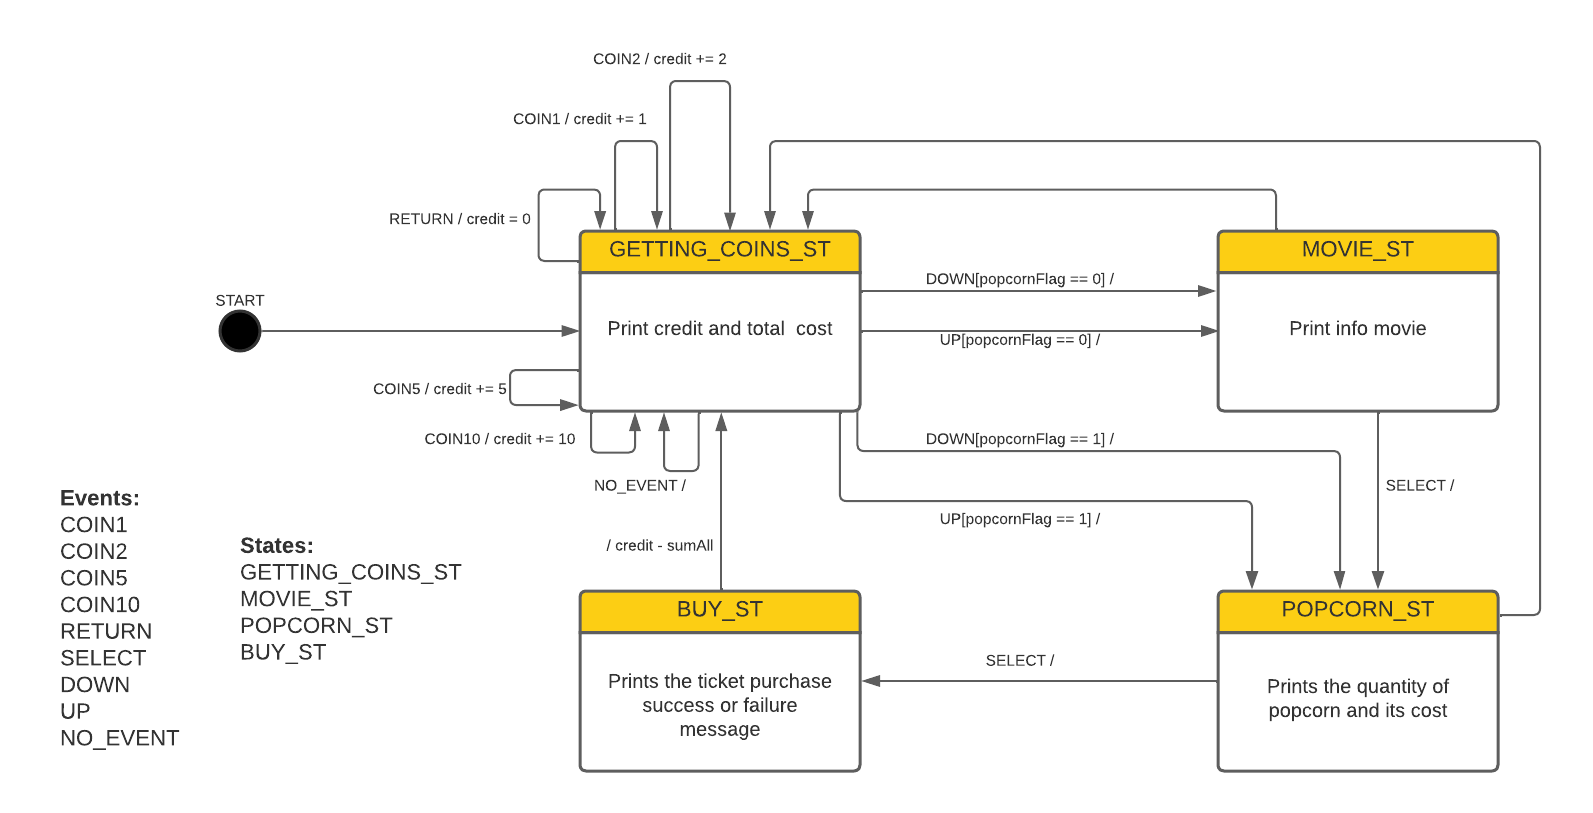
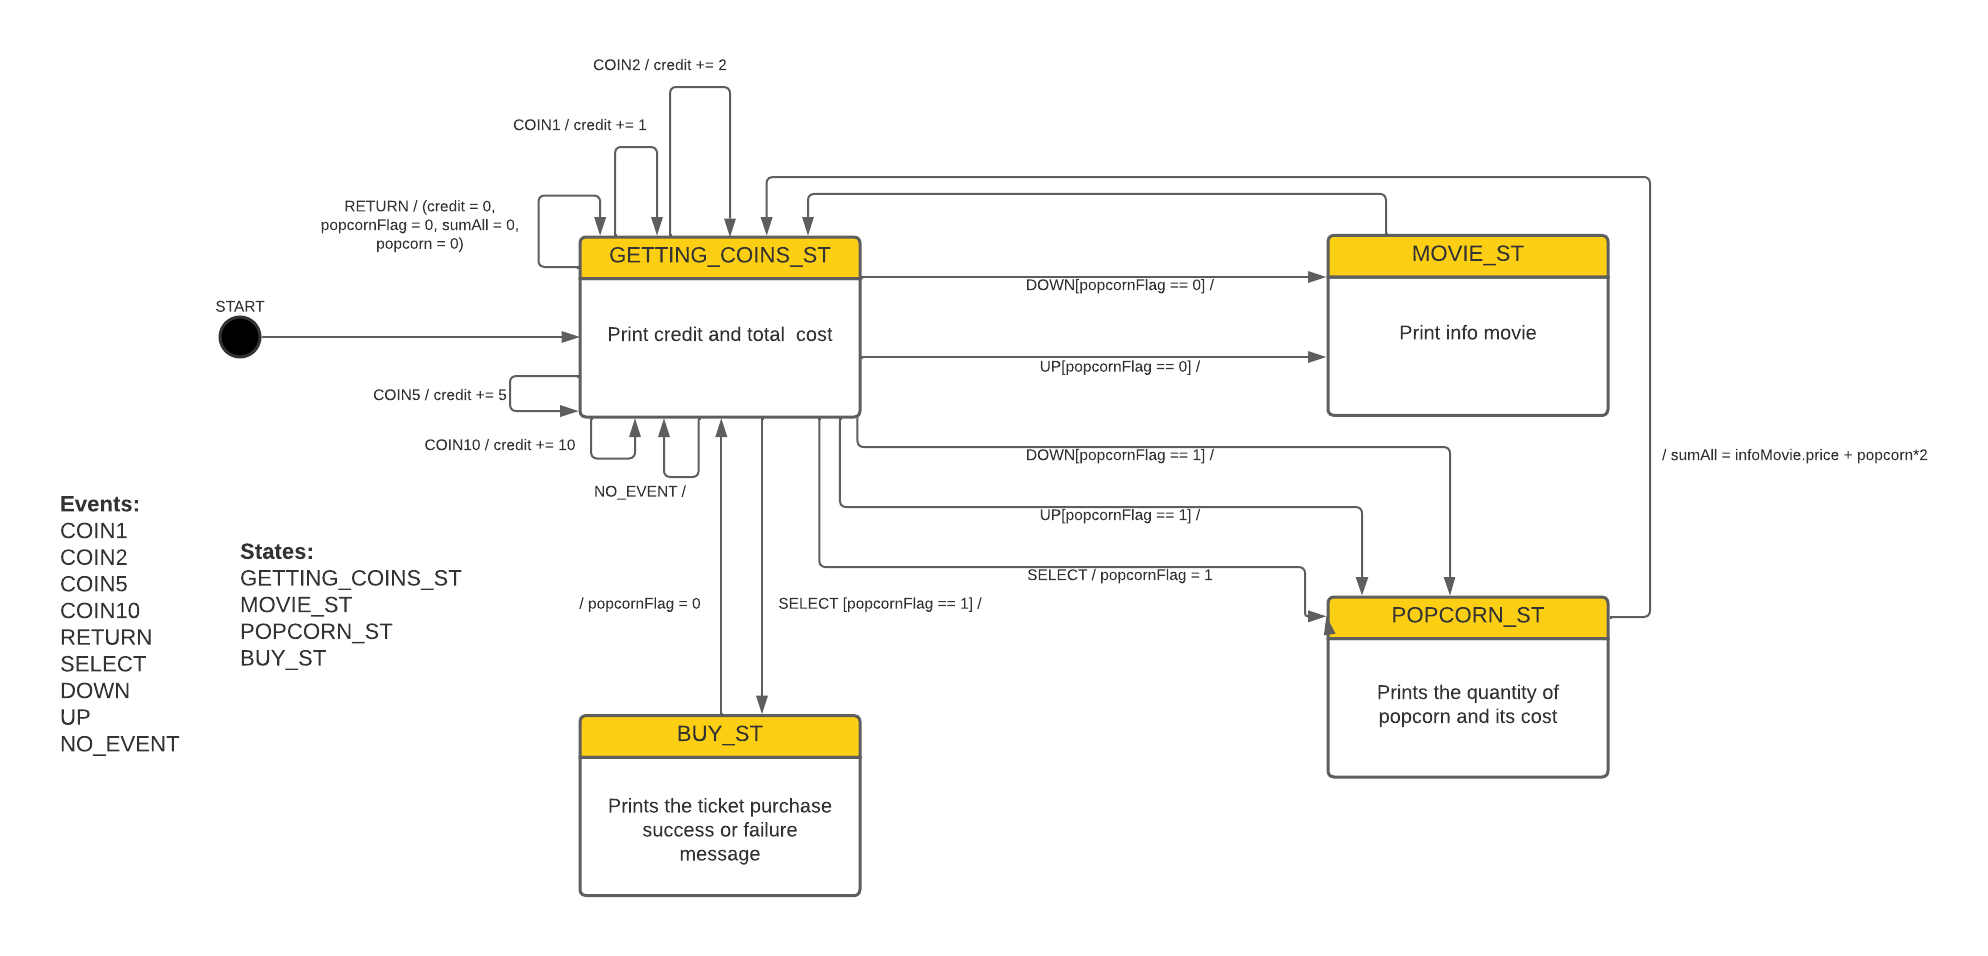
Updated State Machine;

diff --git a/src/main.c b/src/main.c
@@ -145,7 +145,7 @@ digraph finite_state_machine {
     GETTING_COINS_ST -> GETTING_COINS_ST [ label = "                                                        COIN10/credit+=10" ];
     GETTING_COINS_ST -> GETTING_COINS_ST [ label = "                                                     RETURN/credit=0" ];
     GETTING_COINS_ST -> GETTING_COINS_ST [ label = "                                            NO_EVENT/" ];
-
+	GETTING_COINS_ST -> GETTING_COINS_ST [ label = "                                            RETURN/(credit = 0,popcornFlag = 0, popcorn = 0, sumAll = 0)" ];
 	GETTING_COINS_ST -> MOVIE_ST [ label = "UP[popcornFlag = 0]/" ];
     GETTING_COINS_ST -> MOVIE_ST [ label = "DOWN[popcornFlag = 0]/" ];
 
@@ -153,11 +153,14 @@ digraph finite_state_machine {
     MOVIE_ST -> GETTING_COINS_ST;
 
     POPCORN_ST -> BUY_ST [ label = "SELECT/"];
-    POPCORN_ST -> GETTING_COINS_ST;
+    POPCORN_ST -> GETTING_COINS_ST [ label = "/sumAll = infoMovie.price + popcorn*2"];
+
     GETTING_COINS_ST -> POPCORN_ST [ label = "UP[popcornFlag = 1]/" ];
     GETTING_COINS_ST -> POPCORN_ST [ label = "DOWN[popcornFlag = 1]/" ];
+	GETTING_COINS_ST -> POPCORN_ST [ label = "SELECT/popcornFlag = 1" ];
 
-    BUY_ST -> GETTING_COINS_ST [ label = "/credit - sumAll"];
+    BUY_ST -> GETTING_COINS_ST [ label = "/ popcornFlag = 0"];
+	GETTING_COINS_ST -> BUY_ST [ label = "SELECT[popcornFlag = 1]/" ];
 
 }
 \enddot
